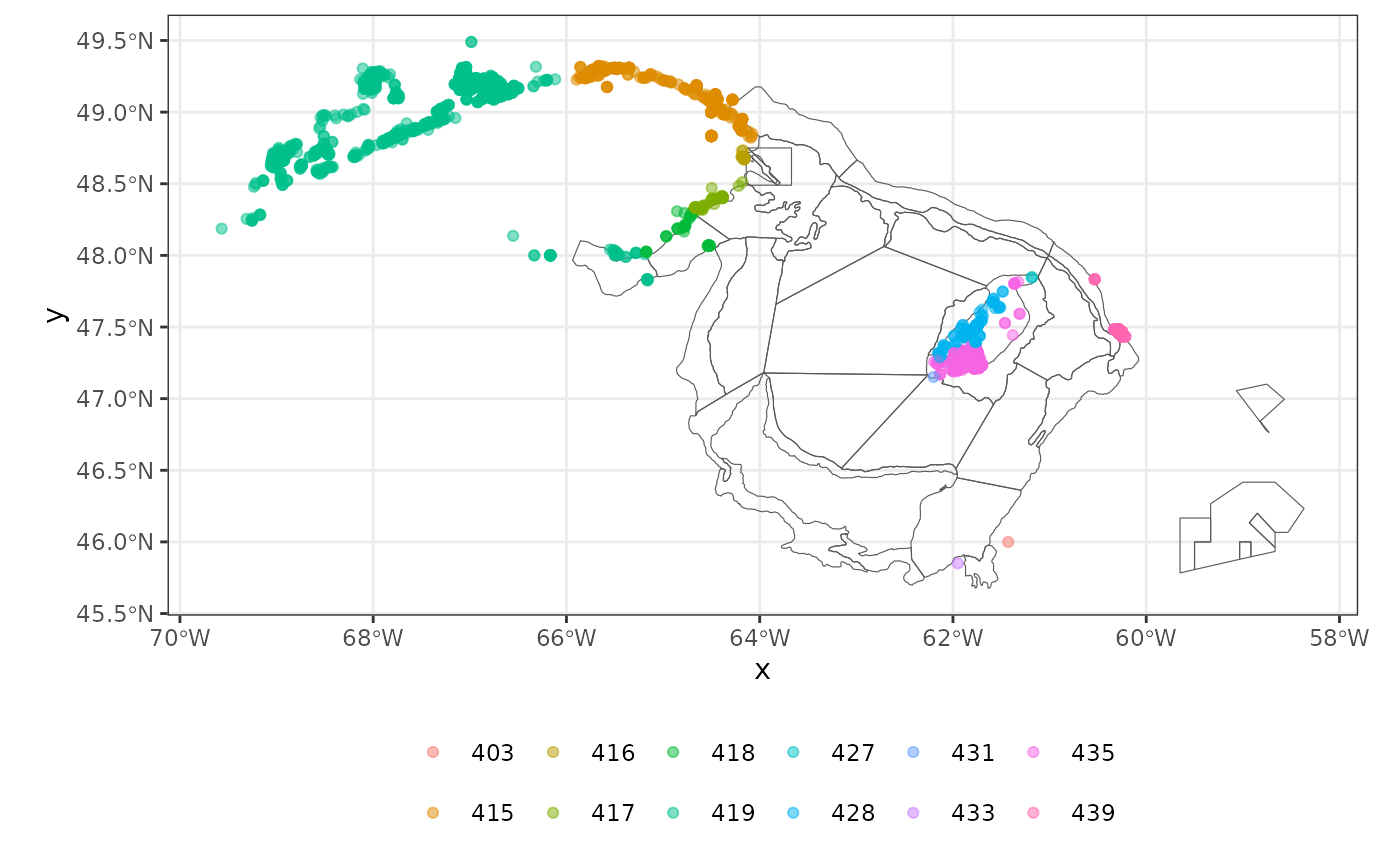
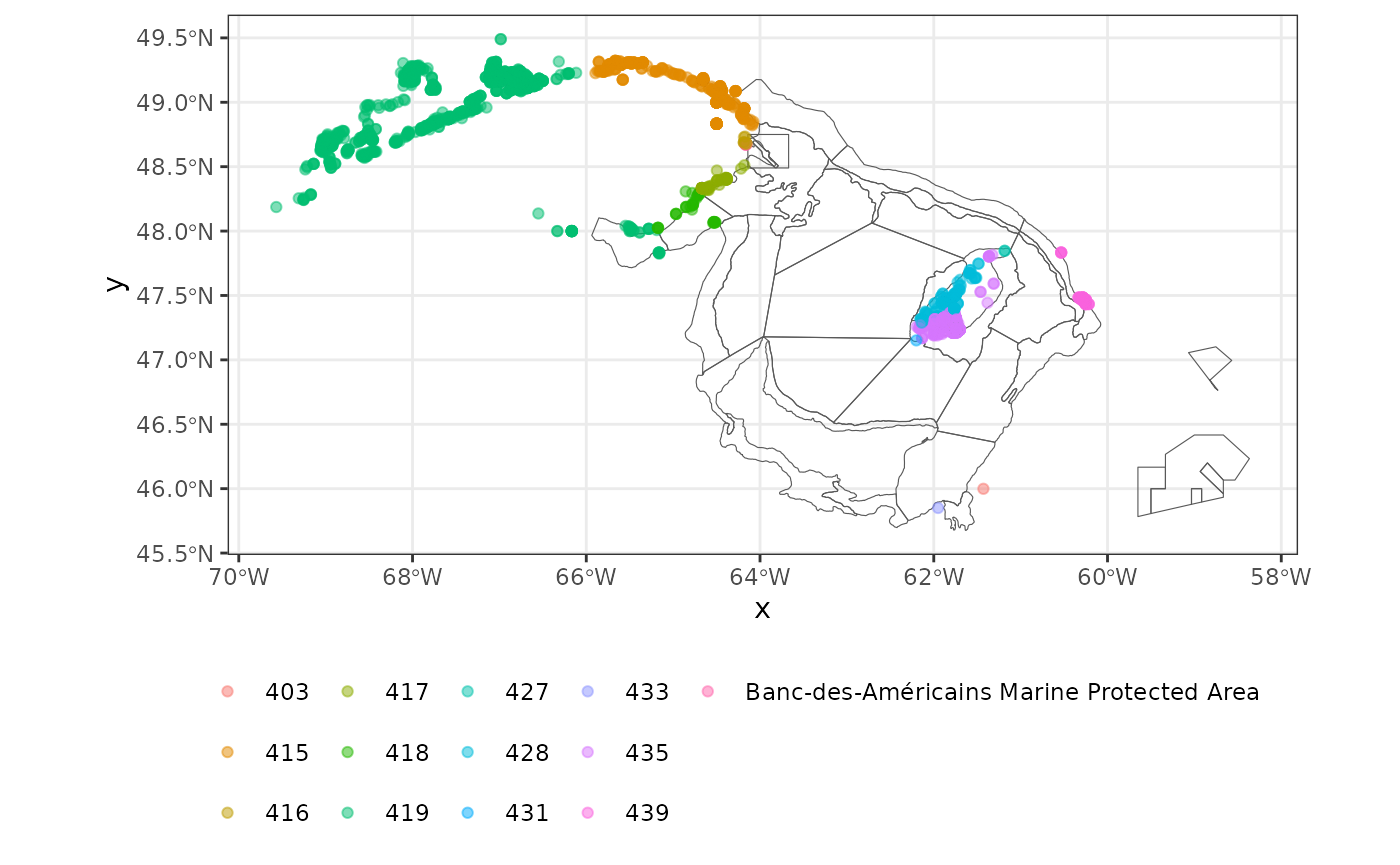
Deploying to gh-pages from @ JoleneSutton/gslSpatial@b067527cdfe38992dc161acb5759a6eb2fd81139 🚀

diff --git a/articles/assign_points.html b/articles/assign_points.html
@@ -20,7 +20,7 @@
 
     <a class="navbar-brand me-2" href="../index.html">gslSpatial</a>
 
-    <small class="nav-text text-muted me-auto" data-bs-toggle="tooltip" data-bs-placement="bottom" title="">0.0.0.9008</small>
+    <small class="nav-text text-muted me-auto" data-bs-toggle="tooltip" data-bs-placement="bottom" title="">0.0.0.9009</small>
 
 
     <button class="navbar-toggler" type="button" data-bs-toggle="collapse" data-bs-target="#navbar" aria-controls="navbar" aria-expanded="false" aria-label="Toggle navigation">
@@ -34,7 +34,6 @@
   <button class="nav-link dropdown-toggle" type="button" id="dropdown-articles" data-bs-toggle="dropdown" aria-expanded="false" aria-haspopup="true">Articles</button>
   <ul class="dropdown-menu" aria-labelledby="dropdown-articles">
 <li><a class="dropdown-item" href="../articles/assign_points.html">Assigning points to polygons</a></li>
-    <li><a class="dropdown-item" href="../articles/working_with_rasters.html">Working with raster objects</a></li>
   </ul>
 </li>
 <li class="nav-item"><a class="nav-link" href="../news/index.html">Changelog</a></li>
@@ -153,11 +152,11 @@ polygons</p>
 </h2>
 <div class="sourceCode" id="cb5"><pre class="downlit sourceCode r">
 <code class="sourceCode R"><span><span class="va">x</span><span class="op">&lt;-</span><span class="fu"><a href="../reference/assign_points_terra.html">assign_points_terra</a></span><span class="op">(</span><span class="va">df</span><span class="op">$</span><span class="va">longitude</span>, <span class="va">df</span><span class="op">$</span><span class="va">latitude</span>,<span class="va">rv</span><span class="op">)</span></span>
-<span><span class="co">#&gt; Processing points 1 to 1000. 00:36:06</span></span>
-<span><span class="co">#&gt; Processing points 1001 to 2000. 00:36:06</span></span>
-<span><span class="co">#&gt; Processing points 2001 to 3000. 00:36:06</span></span>
-<span><span class="co">#&gt; Processing points 3001 to 4000. 00:36:06</span></span>
-<span><span class="co">#&gt; Processing points 4001 to 4559. 00:36:06</span></span>
+<span><span class="co">#&gt; Processing points 1 to 1000. 14:22:13</span></span>
+<span><span class="co">#&gt; Processing points 1001 to 2000. 14:22:13</span></span>
+<span><span class="co">#&gt; Processing points 2001 to 3000. 14:22:13</span></span>
+<span><span class="co">#&gt; Processing points 3001 to 4000. 14:22:13</span></span>
+<span><span class="co">#&gt; Processing points 4001 to 4559. 14:22:13</span></span>
 <span><span class="fu"><a href="https://rspatial.github.io/terra/reference/headtail.html" class="external-link">head</a></span><span class="op">(</span><span class="va">x</span><span class="op">)</span></span>
 <span><span class="co">#&gt;          x       y assigned.polygon</span></span>
 <span><span class="co">#&gt; 1 -60.4406 47.2421              437</span></span>
@@ -262,11 +261,11 @@ shapefile.</p>
 <code class="sourceCode R"><span><span class="va">x</span><span class="op">&lt;-</span><span class="fu"><a href="../reference/assign_points_secr.html">assign_points_secr</a></span><span class="op">(</span><span class="va">dat.ziff</span><span class="op">[</span>,<span class="st">'longitude'</span><span class="op">]</span>,</span>
 <span>                        <span class="va">dat.ziff</span><span class="op">[</span>,<span class="st">'latitude'</span><span class="op">]</span>,</span>
 <span>                        <span class="va">shape</span>,<span class="st">"NAME"</span><span class="op">)</span></span>
-<span><span class="co">#&gt; Processing points 1 to 1000. 00:36:09</span></span>
-<span><span class="co">#&gt; Processing points 1001 to 2000. 00:36:10</span></span>
-<span><span class="co">#&gt; Processing points 2001 to 3000. 00:36:10</span></span>
-<span><span class="co">#&gt; Processing points 3001 to 4000. 00:36:11</span></span>
-<span><span class="co">#&gt; Processing points 4001 to 4559. 00:36:11</span></span>
+<span><span class="co">#&gt; Processing points 1 to 1000. 14:22:15</span></span>
+<span><span class="co">#&gt; Processing points 1001 to 2000. 14:22:16</span></span>
+<span><span class="co">#&gt; Processing points 2001 to 3000. 14:22:17</span></span>
+<span><span class="co">#&gt; Processing points 3001 to 4000. 14:22:17</span></span>
+<span><span class="co">#&gt; Processing points 4001 to 4559. 14:22:18</span></span>
 <span></span>
 <span><span class="va">polygon</span><span class="op">&lt;-</span><span class="va">x</span><span class="op">$</span><span class="va">assigned.polygon</span></span>
 <span></span>
@@ -305,20 +304,20 @@ function takes a bit longer to run compared to
 <code class="sourceCode R"><span><span class="co"># get the unassigned data points</span></span>
 <span><span class="va">pts.outside</span><span class="op">&lt;-</span><span class="va">df2</span><span class="op">[</span><span class="fu"><a href="https://rdrr.io/r/base/which.html" class="external-link">which</a></span><span class="op">(</span><span class="fu"><a href="https://rdrr.io/r/base/NA.html" class="external-link">is.na</a></span><span class="op">(</span><span class="va">df2</span><span class="op">$</span><span class="va">polygon</span><span class="op">)</span><span class="op">)</span>,<span class="op">]</span></span>
 <span></span>
-<span><span class="va">x</span><span class="op">&lt;-</span><span class="fu"><a href="../reference/assign_points_to_nearest_polygon.html">assign_points_to_nearest_polygon</a></span><span class="op">(</span><span class="va">pts.outside</span><span class="op">$</span><span class="va">longitude</span>, <span class="va">pts.outside</span><span class="op">$</span><span class="va">latitude</span>, <span class="va">shape</span>, <span class="st">'NAME'</span><span class="op">)</span></span>
+<span><span class="va">x</span><span class="op">&lt;-</span><span class="fu"><a href="../reference/assign_points_to_nearest_polygon.html">assign_points_to_nearest_polygon</a></span><span class="op">(</span><span class="va">pts.outside</span><span class="op">$</span><span class="va">longitude</span>, <span class="va">pts.outside</span><span class="op">$</span><span class="va">latitude</span>, <span class="va">shape</span><span class="op">)</span></span>
 <span></span>
 <span><span class="fu"><a href="https://rspatial.github.io/terra/reference/headtail.html" class="external-link">head</a></span><span class="op">(</span><span class="va">x</span><span class="op">)</span></span>
-<span><span class="co">#&gt;          x       y NAME n$distance</span></span>
-<span><span class="co">#&gt; 1 -60.2833 47.4666  439  1649.2764</span></span>
-<span><span class="co">#&gt; 2 -60.3000 47.4666  439   944.1621</span></span>
-<span><span class="co">#&gt; 3 -60.3000 47.4666  439   944.1621</span></span>
-<span><span class="co">#&gt; 4 -60.2833 47.4833  439  3034.2767</span></span>
-<span><span class="co">#&gt; 5 -60.3166 47.4833  439  1080.0245</span></span>
-<span><span class="co">#&gt; 6 -60.2833 47.4833  439  3034.2767</span></span>
+<span><span class="co">#&gt;          x       y closest.polygon closest.distance.km</span></span>
+<span><span class="co">#&gt; 1 -60.2833 47.4666             439           1.6258200</span></span>
+<span><span class="co">#&gt; 2 -60.3000 47.4666             439           0.8289201</span></span>
+<span><span class="co">#&gt; 3 -60.3000 47.4666             439           0.8289201</span></span>
+<span><span class="co">#&gt; 4 -60.2833 47.4833             439           2.9693073</span></span>
+<span><span class="co">#&gt; 5 -60.3166 47.4833             439           0.9751439</span></span>
+<span><span class="co">#&gt; 6 -60.2833 47.4833             439           2.9693073</span></span>
 <span></span>
 <span><span class="fu"><a href="https://ggplot2.tidyverse.org/reference/ggplot.html" class="external-link">ggplot</a></span><span class="op">(</span><span class="op">)</span><span class="op">+</span></span>
 <span>  <span class="fu"><a href="https://dieghernan.github.io/tidyterra/reference/ggspatvector.html" class="external-link">geom_spatvector</a></span><span class="op">(</span>data<span class="op">=</span><span class="va">shape</span>,fill<span class="op">=</span><span class="cn">NA</span><span class="op">)</span><span class="op">+</span></span>
-<span>  <span class="fu"><a href="https://ggplot2.tidyverse.org/reference/geom_point.html" class="external-link">geom_point</a></span><span class="op">(</span>data<span class="op">=</span><span class="va">x</span>,<span class="fu"><a href="https://ggplot2.tidyverse.org/reference/aes.html" class="external-link">aes</a></span><span class="op">(</span><span class="va">x</span>,<span class="va">y</span>,col<span class="op">=</span><span class="va">NAME</span><span class="op">)</span>,alpha<span class="op">=</span><span class="fl">0.5</span><span class="op">)</span><span class="op">+</span></span>
+<span>  <span class="fu"><a href="https://ggplot2.tidyverse.org/reference/geom_point.html" class="external-link">geom_point</a></span><span class="op">(</span>data<span class="op">=</span><span class="va">x</span>,<span class="fu"><a href="https://ggplot2.tidyverse.org/reference/aes.html" class="external-link">aes</a></span><span class="op">(</span><span class="va">x</span>,<span class="va">y</span>,col<span class="op">=</span><span class="va">closest.polygon</span><span class="op">)</span>,alpha<span class="op">=</span><span class="fl">0.5</span><span class="op">)</span><span class="op">+</span></span>
 <span>  <span class="fu"><a href="https://ggplot2.tidyverse.org/reference/ggtheme.html" class="external-link">theme_bw</a></span><span class="op">(</span><span class="op">)</span><span class="op">+</span></span>
 <span>  <span class="fu"><a href="https://ggplot2.tidyverse.org/reference/theme.html" class="external-link">theme</a></span><span class="op">(</span>legend.position<span class="op">=</span><span class="st">"bottom"</span>,legend.title<span class="op">=</span><span class="fu"><a href="https://ggplot2.tidyverse.org/reference/element.html" class="external-link">element_blank</a></span><span class="op">(</span><span class="op">)</span><span class="op">)</span><span class="op">+</span></span>
 <span>  <span class="fu"><a href="https://ggplot2.tidyverse.org/reference/guides.html" class="external-link">guides</a></span><span class="op">(</span>col<span class="op">=</span><span class="fu"><a href="https://ggplot2.tidyverse.org/reference/guide_legend.html" class="external-link">guide_legend</a></span><span class="op">(</span>ncol<span class="op">=</span><span class="fl">6</span><span class="op">)</span><span class="op">)</span></span></code></pre></div>

diff --git a/articles/index.html b/articles/index.html
@@ -18,7 +18,7 @@
       <ul class="navbar-nav me-auto"><li class="nav-item"><a class="nav-link" href="../reference/index.html">Reference</a></li>
 <li class="nav-item dropdown">
   <button class="nav-link dropdown-toggle" type="button" id="dropdown-articles" data-bs-toggle="dropdown" aria-expanded="false" aria-haspopup="true">Articles</button>
-  <ul class="dropdown-menu" aria-labelledby="dropdown-articles"><li><a class="dropdown-item" href="../articles/working_with_rasters.html">Working with raster objects</a></li>
+  <ul class="dropdown-menu" aria-labelledby="dropdown-articles"><li><a class="dropdown-item" href="../articles/assign_points.html">Assigning points to polygons</a></li>
   </ul></li>
 <li class="nav-item"><a class="nav-link" href="../news/index.html">Changelog</a></li>
       </ul><ul class="navbar-nav"><li class="nav-item"><form class="form-inline" role="search">
@@ -38,7 +38,7 @@
       <h3>All vignettes</h3>
       <div class="section-desc"></div>
 
-      <dl><dt><a href="working_with_rasters.html">Working with raster objects</a></dt>
+      <dl><dt><a href="assign_points.html">Assigning points to polygons</a></dt>
         <dd>
       </dd></dl></div>
   </main></div>

diff --git a/404.html b/404.html
@@ -34,7 +34,7 @@
 <li class="nav-item dropdown">
   <button class="nav-link dropdown-toggle" type="button" id="dropdown-articles" data-bs-toggle="dropdown" aria-expanded="false" aria-haspopup="true">Articles</button>
   <ul class="dropdown-menu" aria-labelledby="dropdown-articles">
-<li><a class="dropdown-item" href="https://jolenesutton.github.io/gslSpatial/articles/working_with_rasters.html">Working with raster objects</a></li>
+<li><a class="dropdown-item" href="https://jolenesutton.github.io/gslSpatial/articles/assign_points.html">Assigning points to polygons</a></li>
   </ul>
 </li>
 <li class="nav-item"><a class="nav-link" href="https://jolenesutton.github.io/gslSpatial/news/index.html">Changelog</a></li>

diff --git a/LICENSE.html b/LICENSE.html
@@ -18,7 +18,7 @@
       <ul class="navbar-nav me-auto"><li class="nav-item"><a class="nav-link" href="reference/index.html">Reference</a></li>
 <li class="nav-item dropdown">
   <button class="nav-link dropdown-toggle" type="button" id="dropdown-articles" data-bs-toggle="dropdown" aria-expanded="false" aria-haspopup="true">Articles</button>
-  <ul class="dropdown-menu" aria-labelledby="dropdown-articles"><li><a class="dropdown-item" href="articles/working_with_rasters.html">Working with raster objects</a></li>
+  <ul class="dropdown-menu" aria-labelledby="dropdown-articles"><li><a class="dropdown-item" href="articles/assign_points.html">Assigning points to polygons</a></li>
   </ul></li>
 <li class="nav-item"><a class="nav-link" href="news/index.html">Changelog</a></li>
       </ul><ul class="navbar-nav"><li class="nav-item"><form class="form-inline" role="search">

diff --git a/authors.html b/authors.html
@@ -18,7 +18,7 @@
       <ul class="navbar-nav me-auto"><li class="nav-item"><a class="nav-link" href="reference/index.html">Reference</a></li>
 <li class="nav-item dropdown">
   <button class="nav-link dropdown-toggle" type="button" id="dropdown-articles" data-bs-toggle="dropdown" aria-expanded="false" aria-haspopup="true">Articles</button>
-  <ul class="dropdown-menu" aria-labelledby="dropdown-articles"><li><a class="dropdown-item" href="articles/working_with_rasters.html">Working with raster objects</a></li>
+  <ul class="dropdown-menu" aria-labelledby="dropdown-articles"><li><a class="dropdown-item" href="articles/assign_points.html">Assigning points to polygons</a></li>
   </ul></li>
 <li class="nav-item"><a class="nav-link" href="news/index.html">Changelog</a></li>
       </ul><ul class="navbar-nav"><li class="nav-item"><form class="form-inline" role="search">

diff --git a/index.html b/index.html
@@ -36,7 +36,7 @@
 <li class="nav-item dropdown">
   <button class="nav-link dropdown-toggle" type="button" id="dropdown-articles" data-bs-toggle="dropdown" aria-expanded="false" aria-haspopup="true">Articles</button>
   <ul class="dropdown-menu" aria-labelledby="dropdown-articles">
-<li><a class="dropdown-item" href="articles/working_with_rasters.html">Working with raster objects</a></li>
+<li><a class="dropdown-item" href="articles/assign_points.html">Assigning points to polygons</a></li>
   </ul>
 </li>
 <li class="nav-item"><a class="nav-link" href="news/index.html">Changelog</a></li>

diff --git a/news/index.html b/news/index.html
@@ -18,7 +18,7 @@
       <ul class="navbar-nav me-auto"><li class="nav-item"><a class="nav-link" href="../reference/index.html">Reference</a></li>
 <li class="nav-item dropdown">
   <button class="nav-link dropdown-toggle" type="button" id="dropdown-articles" data-bs-toggle="dropdown" aria-expanded="false" aria-haspopup="true">Articles</button>
-  <ul class="dropdown-menu" aria-labelledby="dropdown-articles"><li><a class="dropdown-item" href="../articles/working_with_rasters.html">Working with raster objects</a></li>
+  <ul class="dropdown-menu" aria-labelledby="dropdown-articles"><li><a class="dropdown-item" href="../articles/assign_points.html">Assigning points to polygons</a></li>
   </ul></li>
 <li class="active nav-item"><a class="nav-link" href="../news/index.html">Changelog</a></li>
       </ul><ul class="navbar-nav"><li class="nav-item"><form class="form-inline" role="search">

diff --git a/reference/aggregate_polygons.html b/reference/aggregate_polygons.html
@@ -18,7 +18,7 @@
       <ul class="navbar-nav me-auto"><li class="active nav-item"><a class="nav-link" href="../reference/index.html">Reference</a></li>
 <li class="nav-item dropdown">
   <button class="nav-link dropdown-toggle" type="button" id="dropdown-articles" data-bs-toggle="dropdown" aria-expanded="false" aria-haspopup="true">Articles</button>
-  <ul class="dropdown-menu" aria-labelledby="dropdown-articles"><li><a class="dropdown-item" href="../articles/working_with_rasters.html">Working with raster objects</a></li>
+  <ul class="dropdown-menu" aria-labelledby="dropdown-articles"><li><a class="dropdown-item" href="../articles/assign_points.html">Assigning points to polygons</a></li>
   </ul></li>
 <li class="nav-item"><a class="nav-link" href="../news/index.html">Changelog</a></li>
       </ul><ul class="navbar-nav"><li class="nav-item"><form class="form-inline" role="search">

diff --git a/reference/aggregate_raster.html b/reference/aggregate_raster.html
@@ -18,7 +18,7 @@
       <ul class="navbar-nav me-auto"><li class="active nav-item"><a class="nav-link" href="../reference/index.html">Reference</a></li>
 <li class="nav-item dropdown">
   <button class="nav-link dropdown-toggle" type="button" id="dropdown-articles" data-bs-toggle="dropdown" aria-expanded="false" aria-haspopup="true">Articles</button>
-  <ul class="dropdown-menu" aria-labelledby="dropdown-articles"><li><a class="dropdown-item" href="../articles/working_with_rasters.html">Working with raster objects</a></li>
+  <ul class="dropdown-menu" aria-labelledby="dropdown-articles"><li><a class="dropdown-item" href="../articles/assign_points.html">Assigning points to polygons</a></li>
   </ul></li>
 <li class="nav-item"><a class="nav-link" href="../news/index.html">Changelog</a></li>
       </ul><ul class="navbar-nav"><li class="nav-item"><form class="form-inline" role="search">

diff --git a/reference/assign_points_secr.html b/reference/assign_points_secr.html
@@ -24,7 +24,7 @@ point has been assigned to. USE THIS INSTEAD OF assign_points_terra WHEN THERE A
       <ul class="navbar-nav me-auto"><li class="active nav-item"><a class="nav-link" href="../reference/index.html">Reference</a></li>
 <li class="nav-item dropdown">
   <button class="nav-link dropdown-toggle" type="button" id="dropdown-articles" data-bs-toggle="dropdown" aria-expanded="false" aria-haspopup="true">Articles</button>
-  <ul class="dropdown-menu" aria-labelledby="dropdown-articles"><li><a class="dropdown-item" href="../articles/working_with_rasters.html">Working with raster objects</a></li>
+  <ul class="dropdown-menu" aria-labelledby="dropdown-articles"><li><a class="dropdown-item" href="../articles/assign_points.html">Assigning points to polygons</a></li>
   </ul></li>
 <li class="nav-item"><a class="nav-link" href="../news/index.html">Changelog</a></li>
       </ul><ul class="navbar-nav"><li class="nav-item"><form class="form-inline" role="search">

diff --git a/reference/assign_points_terra.html b/reference/assign_points_terra.html
@@ -24,7 +24,7 @@ IF THERE ARE OVERLAPPING POLYGONS, USE assign_points_secr INSTEAD."><meta proper
       <ul class="navbar-nav me-auto"><li class="active nav-item"><a class="nav-link" href="../reference/index.html">Reference</a></li>
 <li class="nav-item dropdown">
   <button class="nav-link dropdown-toggle" type="button" id="dropdown-articles" data-bs-toggle="dropdown" aria-expanded="false" aria-haspopup="true">Articles</button>
-  <ul class="dropdown-menu" aria-labelledby="dropdown-articles"><li><a class="dropdown-item" href="../articles/working_with_rasters.html">Working with raster objects</a></li>
+  <ul class="dropdown-menu" aria-labelledby="dropdown-articles"><li><a class="dropdown-item" href="../articles/assign_points.html">Assigning points to polygons</a></li>
   </ul></li>
 <li class="nav-item"><a class="nav-link" href="../news/index.html">Changelog</a></li>
       </ul><ul class="navbar-nav"><li class="nav-item"><form class="form-inline" role="search">

diff --git a/reference/assign_points_to_nearest_polygon.html b/reference/assign_points_to_nearest_polygon.html
@@ -18,7 +18,7 @@
       <ul class="navbar-nav me-auto"><li class="active nav-item"><a class="nav-link" href="../reference/index.html">Reference</a></li>
 <li class="nav-item dropdown">
   <button class="nav-link dropdown-toggle" type="button" id="dropdown-articles" data-bs-toggle="dropdown" aria-expanded="false" aria-haspopup="true">Articles</button>
-  <ul class="dropdown-menu" aria-labelledby="dropdown-articles"><li><a class="dropdown-item" href="../articles/working_with_rasters.html">Working with raster objects</a></li>
+  <ul class="dropdown-menu" aria-labelledby="dropdown-articles"><li><a class="dropdown-item" href="../articles/assign_points.html">Assigning points to polygons</a></li>
   </ul></li>
 <li class="nav-item"><a class="nav-link" href="../news/index.html">Changelog</a></li>
       </ul><ul class="navbar-nav"><li class="nav-item"><form class="form-inline" role="search">